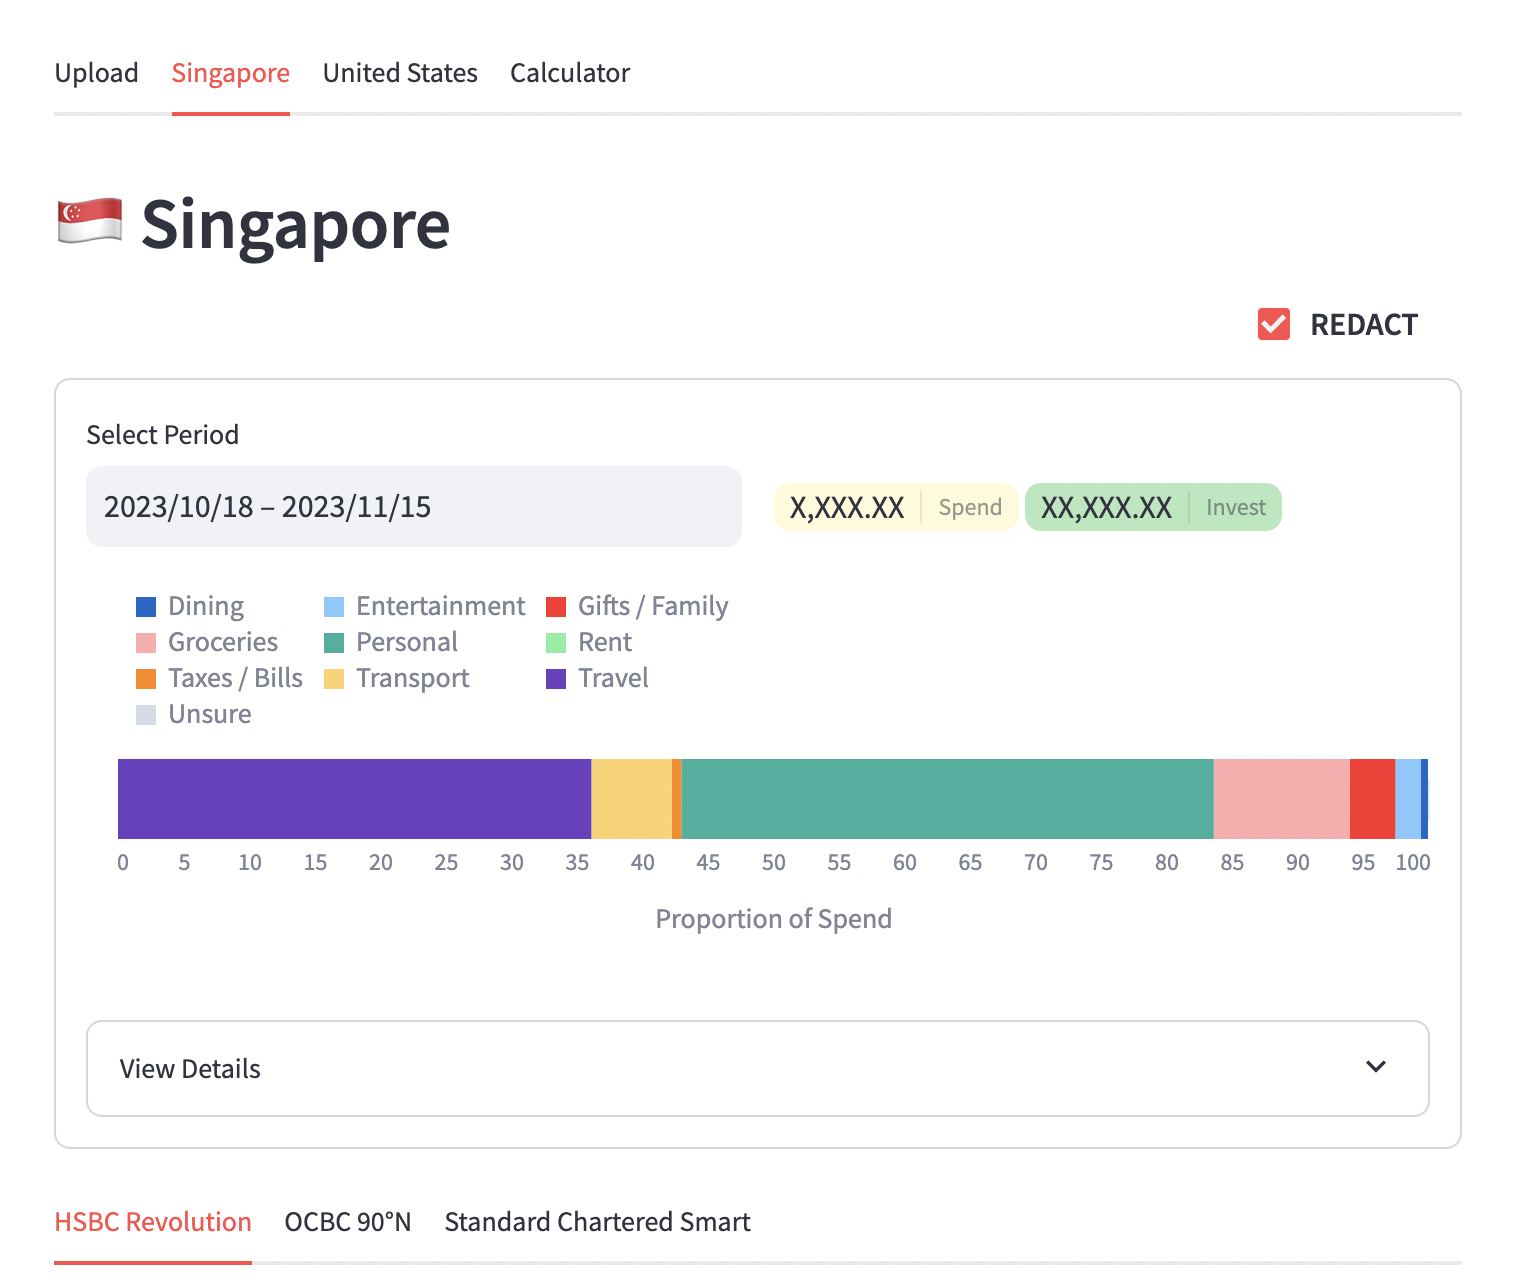
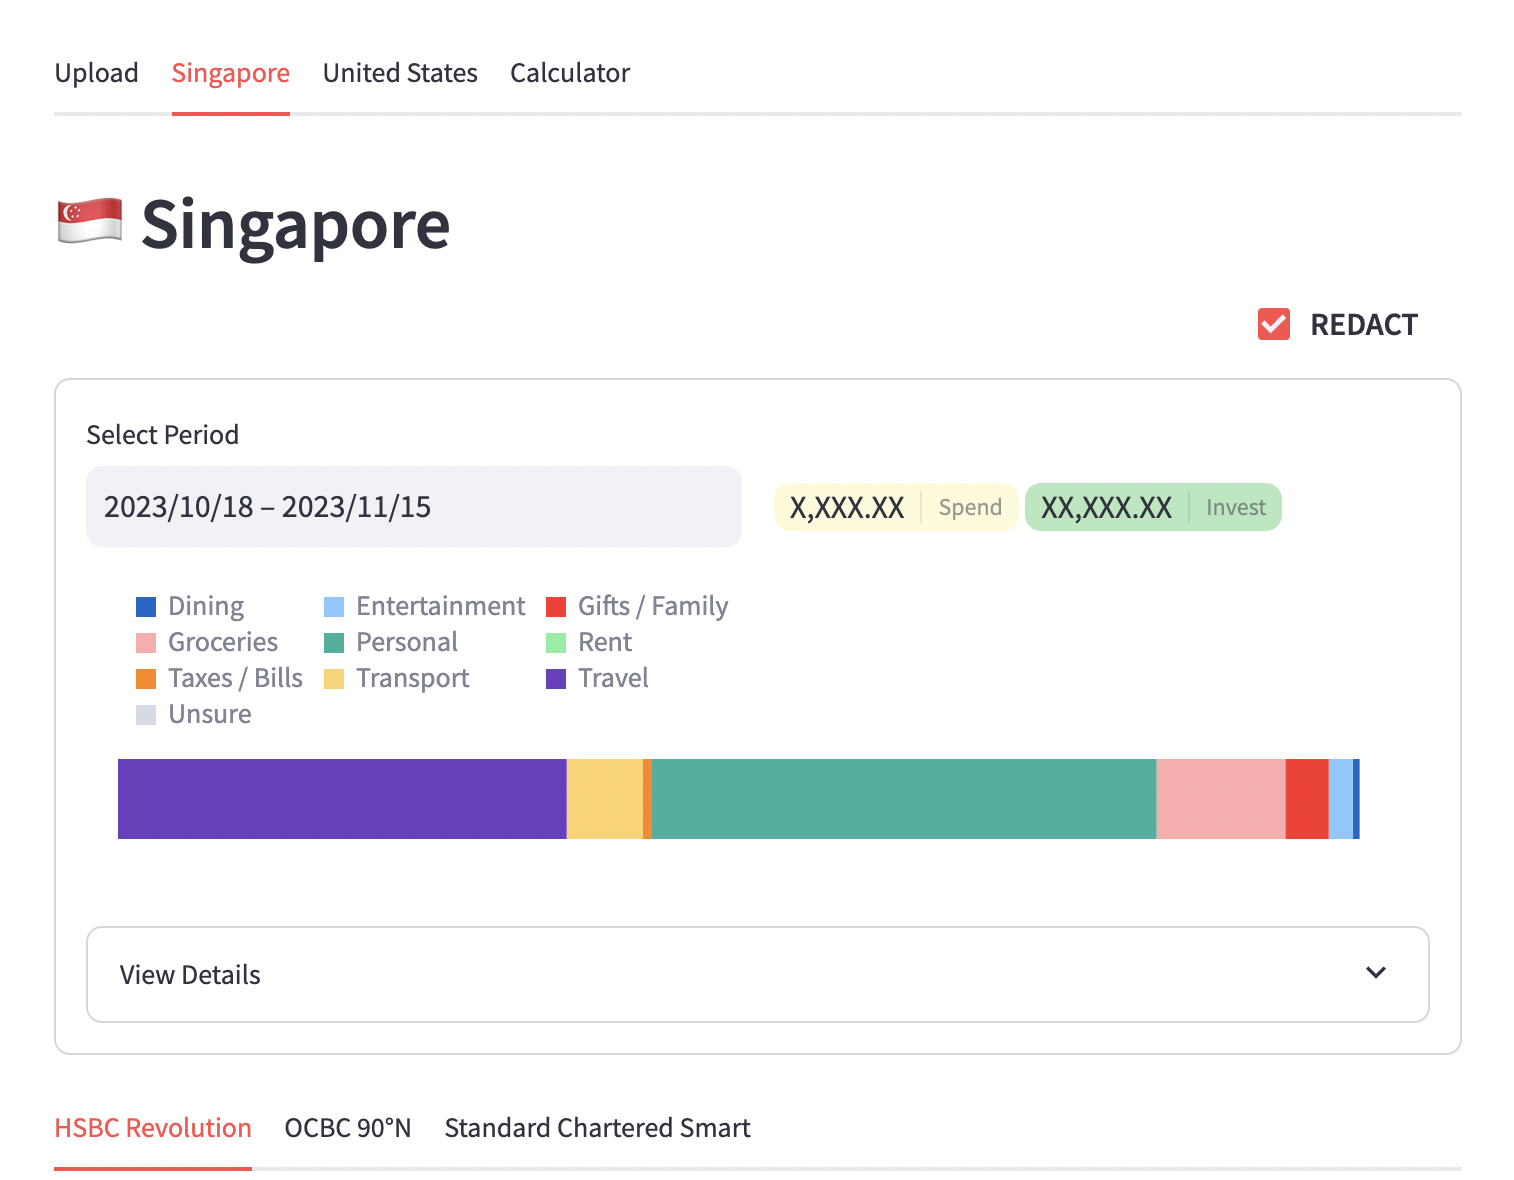
redact x-axis of expense bar

diff --git a/src/format_utilities.py b/src/format_utilities.py
@@ -54,30 +54,45 @@ def horizontal_bar(chart_data, redact, size = 40):
         data = pd.melt(chart_data.reset_index(), id_vars = ["index"])
         
         if redact:
-            denom = sum(data['value'])*0.01
-            data['value'] /= denom
-        
-        xlabels = ["Total Spend", "Proportion of Spend"]
-        
-        chart = (
-            alt.Chart(data)
-            .mark_bar(size = size)
-            .encode(
-                x = alt.X("value",
-                          type = "quantitative",
-                          title = xlabels[redact]),
-                y = alt.Y("index",
-                          type = "nominal",
-                          title = ""),
-                color = alt.Color("variable",
-                                  type = "nominal",
-                                  title = "",
-                                  legend = alt.Legend(orient = 'top', columns = 3)),
-                order = alt.Order("variable",
-                                  sort = "descending"),
+            chart = (
+                alt.Chart(data)
+                .mark_bar(size = size)
+                .encode(
+                    x = alt.X("value",
+                              type = "quantitative",
+                              title = "",
+                              axis = None),
+                    y = alt.Y("index",
+                              type = "nominal",
+                              title = ""),
+                    color = alt.Color("variable",
+                                      type = "nominal",
+                                      title = "",
+                                      legend = alt.Legend(orient = 'top', columns = 3)),
+                    order = alt.Order("variable",
+                                      sort = "descending"),
+                )
             )
-        )
-        
+            
+        else:
+            chart = (
+                alt.Chart(data)
+                .mark_bar(size = size)
+                .encode(
+                    x = alt.X("value",
+                              type = "quantitative",
+                              title = ""),
+                    y = alt.Y("index",
+                              type = "nominal",
+                              title = ""),
+                    color = alt.Color("variable",
+                                      type = "nominal",
+                                      title = "",
+                                      legend = alt.Legend(orient = 'top', columns = 3)),
+                    order = alt.Order("variable",
+                                      sort = "descending"),
+                )
+            )
         return chart
     except Exception as e:
         print(e)
